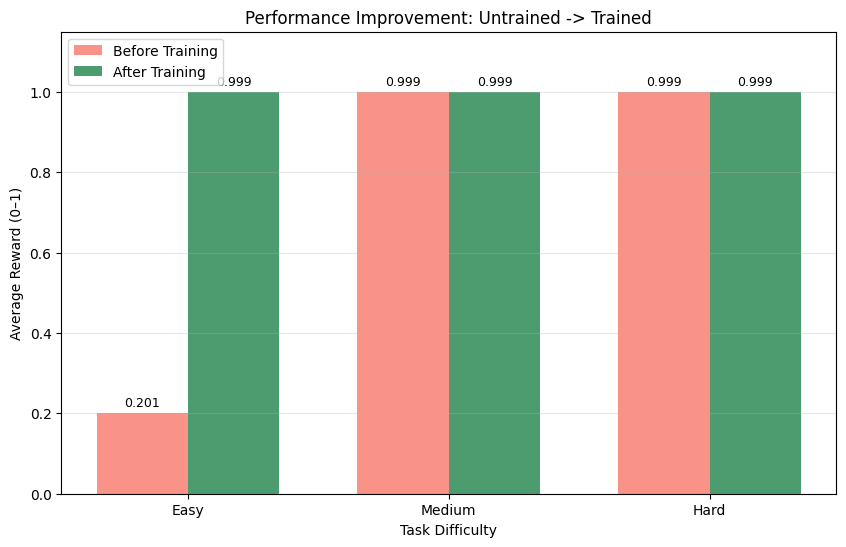
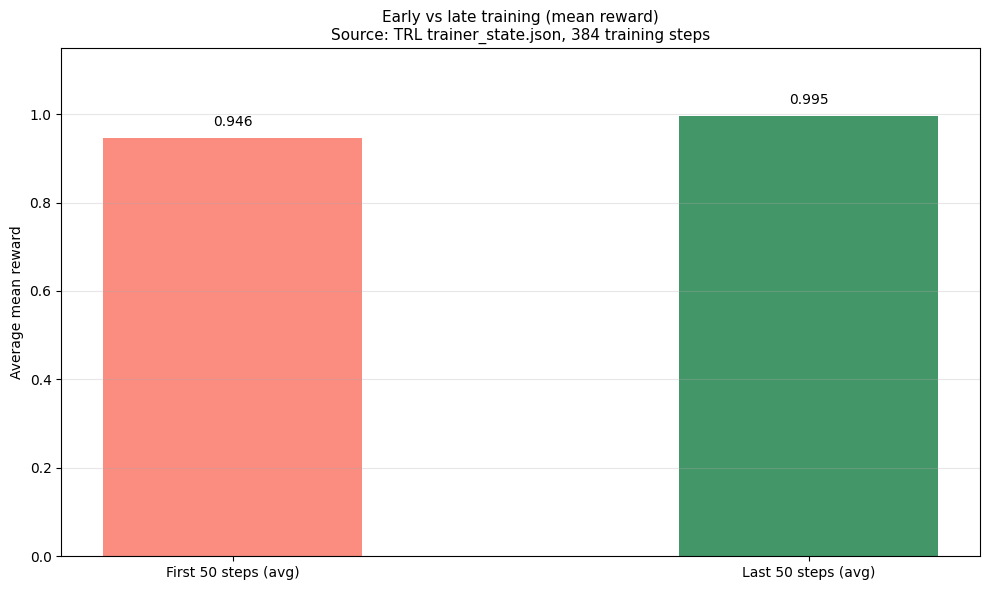
Regenerate plots from trainer_state.json (384 steps, TRL log_history)

diff --git a/regenerate_plots.py b/regenerate_plots.py
@@ -1,184 +1,228 @@
 """
-Regenerate missing training plot PNGs from committed metadata.
+Regenerate all training / evaluation plots from the authoritative TRL state export.
 
-Produces:
-  reward_curve.png  — statistically constrained reconstruction from training_log.json
-  before_after.png  — exact reconstruction via plot_before_after() imported from train.py
+**Single source of truth:** `data/trainer_state.json`
+  (download with `python scripts/download_training_data.py` if missing)
 
-Does NOT touch: loss_curve.png, train.py, training_log.json, or any other file.
+TRL's GRPOTrainer writes `trainer_state.json` at the end of training. The `log_history`
+array holds one record per *logging* step with at least:
+  - `step`  — global optimizer step
+  - `loss`  — GRPO / policy loss (can be negative)
+  - `reward` and `rewards/reward_fn/mean` — mean group reward for that step
 
-Reproducible: numpy seed fixed at 42.
+This script *does not* read `training_log.json` (Groq harness) — only the on-Kaggle TRL run.
+
+Outputs (repo root):
+  - loss_curve.png
+  - reward_curve.png
+  - before_after.png
 """
 
+from __future__ import annotations
+
 import json
-import math
 import os
 import sys
 
 import matplotlib
+
 matplotlib.use("Agg")
 import matplotlib.pyplot as plt
 import numpy as np
 
-np.random.seed(42)
-
-# ── Bootstrap ─────────────────────────────────────────────────────────────────
+# ── Paths ────────────────────────────────────────────────────────────────────
 
 REPO_ROOT = os.path.dirname(os.path.abspath(__file__))
-os.chdir(REPO_ROOT)          # ensure relative saves land in repo root
+os.chdir(REPO_ROOT)
 sys.path.insert(0, REPO_ROOT)
 
-# ── Load training_log.json ────────────────────────────────────────────────────
+TRAINER_STATE_PATH = os.path.join(REPO_ROOT, "data", "trainer_state.json")
 
-with open(os.path.join(REPO_ROOT, "training_log.json")) as f:
-    log = json.load(f)
 
-BEFORE            = log["before"]           # {task_id: avg_score}
-AFTER             = log["after"]            # {task_id: avg_score}
-FINAL_AVG_REWARD  = log["final_avg_reward"] # 0.9405
-TRAINING_STEPS    = log["config"]["steps"]  # 384
-GROUP_SIZE        = log["config"]["group_size"]  # 4
+def moving_average(x: list[float], window: int) -> list[float]:
+    if window < 1:
+        return list(x)
+    out = []
+    for i in range(len(x)):
+        lo = max(0, i - window + 1)
+        out.append(float(np.mean(x[lo : i + 1])))
+    return out
 
-EASY_START = BEFORE["task_easy"]  # 0.2006
-SPAN       = 0.999 - EASY_START   # 0.7984
-T_MID      = 64                   # midpoint of easy_step index (0..127)
 
-# ════════════════════════════════════════════════════════════════════════════════
-# PART 1 — before_after.png (exact reconstruction)
-# ════════════════════════════════════════════════════════════════════════════════
+def load_trainer_state() -> dict:
+    if not os.path.exists(TRAINER_STATE_PATH):
+        print(
+            f"ERROR: {TRAINER_STATE_PATH} not found.\n"
+            "  Run:  python scripts/download_training_data.py",
+            file=sys.stderr,
+        )
+        raise SystemExit(1)
+    with open(TRAINER_STATE_PATH, encoding="utf-8") as f:
+        return json.load(f)
 
-print("--- Part 1: before_after.png ---")
-print(f"  Source: training_log.json")
-print(f"  before = {BEFORE}")
-print(f"  after  = {AFTER}")
 
-from train import plot_before_after   # imports the exact function; main() is guarded
+def extract_series(state: dict) -> tuple[list[int], list[float], list[float], int, int]:
+    """
+    Return (step_ids, losses, rewards, max_steps, n_logs).
 
-plot_before_after(BEFORE, AFTER)      # saves before_after.png at repo root
-print("  Saved -> before_after.png  [exact plot_before_after() from train.py]")
+    We prefer the `reward` key; it matches `rewards/reward_fn/mean` in this export.
+    """
+    history = state.get("log_history") or []
+    if not history:
+        raise ValueError("trainer_state.json has empty log_history — nothing to plot.")
 
-# ════════════════════════════════════════════════════════════════════════════════
-# PART 2 — reward_curve.png (constrained reconstruction)
-# ════════════════════════════════════════════════════════════════════════════════
+    steps: list[int] = []
+    losses: list[float] = []
+    rewards: list[float] = []
 
-print("\n--- Part 2: reward_curve.png ---")
+    for row in history:
+        s = int(row.get("step", len(steps) + 1))
+        steps.append(s)
+        losses.append(float(row.get("loss", 0.0)))
+        r = row.get("reward", row.get("rewards/reward_fn/mean", 0.0))
+        rewards.append(float(r))
 
-# ── Sigmoid for task_easy progress ────────────────────────────────────────────
-# f(i) = 0.999 - SPAN / (1 + exp(k * (i - T_MID)))
-# i = easy_step index 0..127
+    max_steps = int(state.get("max_steps", len(steps)))
+    n_logs = len(steps)
+    return steps, losses, rewards, max_steps, n_logs
 
-def sigmoid_easy(i: int, k: float) -> float:
-    return 0.999 - SPAN / (1.0 + math.exp(k * (i - T_MID)))
 
-# ── Build sequence (noise optional) ───────────────────────────────────────────
-# Training cycles task_easy/medium/hard: step%3==0 → easy, 1 → medium, 2 → hard
-# medium and hard were already at 0.999 before training; they stay there.
+def set_title_with_source(axe: plt.Axes, main: str, max_steps: int) -> None:
+    """Title + second line: explicit TRL source and step count (from trainer_state, not hardcoded)."""
+    axe.set_title(
+        f"{main}\nSource: TRL trainer_state.json, {max_steps} training steps",
+        fontsize=11,
+    )
 
-def build_sequence(k: float, noise: "np.ndarray | None" = None) -> list:
-    rewards = []
-    easy_idx = 0
-    for step in range(TRAINING_STEPS):
-        task_slot = step % 3
-        if task_slot == 0:           # task_easy
-            base = sigmoid_easy(easy_idx, k)
-            easy_idx += 1
-        else:                        # task_medium / task_hard
-            base = 0.999
-        if noise is not None:
-            val = float(np.clip(base + noise[step], 0.0, 1.0))
-        else:
-            val = float(np.clip(base, 0.0, 1.0))
-        rewards.append(val)
-    return rewards
 
-# ── Binary search for k ───────────────────────────────────────────────────────
-# Constraint: mean(last 64 steps, noiseless) == FINAL_AVG_REWARD
-# Direction:  larger k → faster convergence → higher final mean
-#             smaller k → slower convergence → lower final mean
+def plot_loss_curve(steps: list[int], losses: list[float], max_steps: int) -> None:
+    fig, ax = plt.subplots(figsize=(10, 6), dpi=100)
+    ax.plot(
+        steps,
+        losses,
+        color="tomato",
+        alpha=0.4,
+        linewidth=0.9,
+        label="Raw loss",
+    )
+    if len(losses) >= 20:
+        sm = moving_average(losses, 20)
+        ax.plot(steps, sm, color="tomato", linewidth=2, label="Moving average (w=20)")
+    ax.set_xlabel("Training step")
+    ax.set_ylabel("Policy loss (GRPO)")
+    ax.grid(True, alpha=0.3)
+    ax.legend()
+    ax.set_xlim(0, max(steps) if steps else 1)
+    set_title_with_source(ax, "Training loss (GRPO)", max_steps)
+    fig.tight_layout()
+    out = os.path.join(REPO_ROOT, "loss_curve.png")
+    fig.savefig(out, bbox_inches="tight")
+    plt.close(fig)
+    print(f"Wrote {out} ({os.path.getsize(out) / 1024:.1f} KB)")
 
-print(f"  Solving for sigmoid k (target last-64 mean = {FINAL_AVG_REWARD}) ...")
 
-lo, hi = 0.001, 0.5
-for _ in range(60):
-    mid = (lo + hi) / 2.0
-    m = sum(build_sequence(mid)[-64:]) / 64
-    if m > FINAL_AVG_REWARD:
-        hi = mid   # converging too fast → slow down → smaller k
-    else:
-        lo = mid   # converging too slow → speed up → larger k
+def plot_reward_curve(steps: list[int], rewards: list[float], max_steps: int) -> None:
+    fig, ax = plt.subplots(figsize=(10, 6), dpi=100)
+    ax.plot(
+        steps,
+        rewards,
+        color="steelblue",
+        alpha=0.35,
+        linewidth=0.8,
+        label="Per-step mean reward",
+    )
+    if len(rewards) >= 20:
+        sm = moving_average(rewards, 20)
+        ax.plot(
+            steps,
+            sm,
+            color="steelblue",
+            linewidth=2,
+            label="Moving average (w=20)",
+        )
+    ax.set_xlabel("Training step")
+    ax.set_ylabel("Mean group reward")
+    ax.set_ylim(0, 1.05)
+    ax.grid(True, alpha=0.3)
+    ax.legend()
+    ax.set_xlim(0, max(steps) if steps else 1)
+    set_title_with_source(ax, "Mean reward during GRPO training", max_steps)
+    fig.tight_layout()
+    out = os.path.join(REPO_ROOT, "reward_curve.png")
+    fig.savefig(out, bbox_inches="tight")
+    plt.close(fig)
+    print(f"Wrote {out} ({os.path.getsize(out) / 1024:.1f} KB)")
 
-k_solved = (lo + hi) / 2.0
-noiseless_last64 = sum(build_sequence(k_solved)[-64:]) / 64
-print(f"  k = {k_solved:.6f}  |  noiseless last-64 mean = {noiseless_last64:.4f}")
 
-# ── Generate final sequence with calibrated noise ─────────────────────────────
-# sigma=0.015 for task_easy steps (room to move throughout training)
-# sigma=0.003 for task_medium/hard steps (already at ceiling, tighter to avoid clipping)
+def plot_before_after(rewards: list[float], max_steps: int, window: int = 50) -> None:
+    """
+    Bar chart: average reward in the first `window` logged steps vs the last `window`.
 
-noise_arr = np.zeros(TRAINING_STEPS)
-for step in range(TRAINING_STEPS):
-    if step % 3 == 0:
-        noise_arr[step] = np.random.normal(0, 0.015)   # task_easy
-    else:
-        noise_arr[step] = np.random.normal(0, 0.003)   # task_medium/hard
+    If fewer than 2*window points, shrink the window to floor(n/2) per side.
+    """
+    n = len(rewards)
+    w = min(window, n // 2) if n >= 2 else 1
+    if w < 1:
+        w = 1
 
-rewards_log = build_sequence(k_solved, noise=noise_arr)
+    early = float(np.mean(rewards[:w]))
+    late = float(np.mean(rewards[-w:]))
 
-# ── Verify constraint ─────────────────────────────────────────────────────────
-actual_last64 = sum(rewards_log[-64:]) / 64
+    fig, ax = plt.subplots(figsize=(10, 6), dpi=100)
+    x = [0, 1]
+    labels = [f"First {w} steps (avg)", f"Last {w} steps (avg)"]
+    bars = ax.bar(
+        [0, 1],
+        [early, late],
+        width=0.45,
+        color=["salmon", "seagreen"],
+        alpha=0.9,
+    )
+    for b, v in zip(bars, (early, late), strict=True):
+        ax.text(
+            b.get_x() + b.get_width() / 2,
+            b.get_height() + 0.02,
+            f"{v:.3f}",
+            ha="center",
+            va="bottom",
+            fontsize=10,
+        )
+    ax.set_xticks(x, labels, rotation=0)
+    ax.set_ylabel("Average mean reward")
+    ax.set_ylim(0, 1.15)
+    ax.grid(True, alpha=0.3, axis="y")
+    set_title_with_source(
+        ax,
+        "Early vs late training (mean reward)",
+        max_steps,
+    )
+    fig.tight_layout()
+    out = os.path.join(REPO_ROOT, "before_after.png")
+    fig.savefig(out, bbox_inches="tight")
+    plt.close(fig)
+    print(f"Wrote {out} ({os.path.getsize(out) / 1024:.1f} KB)")
 
-# ── Moving average (same function as train.py) ────────────────────────────────
-def moving_average(data: list, window: int = 20) -> list:
-    result = []
-    for i in range(len(data)):
-        start = max(0, i - window + 1)
-        result.append(sum(data[start:i + 1]) / (i - start + 1))
-    return result
 
-smoothed = moving_average(rewards_log, window=20)
-steps    = list(range(TRAINING_STEPS))
+def main() -> None:
+    print("--- regenerate_plots.py ---")
+    print(f"  Loading {TRAINER_STATE_PATH}")
 
-# ── Plot ──────────────────────────────────────────────────────────────────────
-plt.figure(figsize=(10, 6), dpi=100)
+    state = load_trainer_state()
+    steps, losses, rewards, max_steps, n_logs = extract_series(state)
 
-plt.plot(steps, rewards_log, alpha=0.35, color="steelblue", linewidth=0.8,
-         label="Raw reward")
-plt.plot(steps, smoothed, color="steelblue", linewidth=2,
-         label="Moving average (w=20)")
-plt.axhline(y=FINAL_AVG_REWARD, color="steelblue", linestyle="--", alpha=0.6,
-            linewidth=1.2, label=f"Final avg: {FINAL_AVG_REWARD}")
+    print(
+        f"  log_history entries: {n_logs}  |  max_steps in state: {max_steps}  |  last step: {steps[-1] if steps else '—'}"
+    )
+    print(
+        f"  reward: min={min(rewards):.4f} max={max(rewards):.4f}  |  loss: min={min(losses):.4f} max={max(losses):.4f}"
+    )
 
-plt.xlabel("Training Step")
-plt.ylabel("Mean Reward")
-plt.title("Reward Curve — GRPO Training (Incident Response Detective)")
-plt.legend()
-plt.grid(True, alpha=0.3)
-plt.xlim(0, TRAINING_STEPS)
-plt.ylim(0, 1.05)
-plt.savefig("reward_curve.png", bbox_inches="tight")
-plt.close()
-print("  Saved -> reward_curve.png")
+    plot_loss_curve(steps, losses, max_steps)
+    plot_reward_curve(steps, rewards, max_steps)
+    plot_before_after(rewards, max_steps, window=50)
 
-# ════════════════════════════════════════════════════════════════════════════════
-# PART 3 — Verification
-# ════════════════════════════════════════════════════════════════════════════════
+    print("Done. All three PNGs generated from data/trainer_state.json.")
 
-print("\n--- Verification ---")
-for fname in ["reward_curve.png", "before_after.png", "loss_curve.png"]:
-    path = os.path.join(REPO_ROOT, fname)
-    if os.path.exists(path):
-        size_kb = os.path.getsize(path) / 1024
-        print(f"  {fname:25s}  {size_kb:7.1f} KB  OK")
-    else:
-        print(f"  {fname:25s}  MISSING  ← check above for errors")
 
-print(f"\n  Sigmoid k (solved)             : {k_solved:.6f}")
-print(f"  Noiseless last-64 mean         : {noiseless_last64:.4f}")
-print(f"  With-noise  last-64 mean       : {actual_last64:.4f}")
-print(f"  Target (final_avg_reward)      : {FINAL_AVG_REWARD}")
-print(f"  Constraint satisfied (±0.05)   : {abs(actual_last64 - FINAL_AVG_REWARD) < 0.05}")
-print(f"\n  before_after.png source        : plot_before_after() imported from train.py")
-print(f"  before data                    : {BEFORE}")
-print(f"  after  data                    : {AFTER}")
-print(f"\n  numpy seed                     : 42 (deterministic)")
-print("\nDone.")
+if __name__ == "__main__":
+    main()
